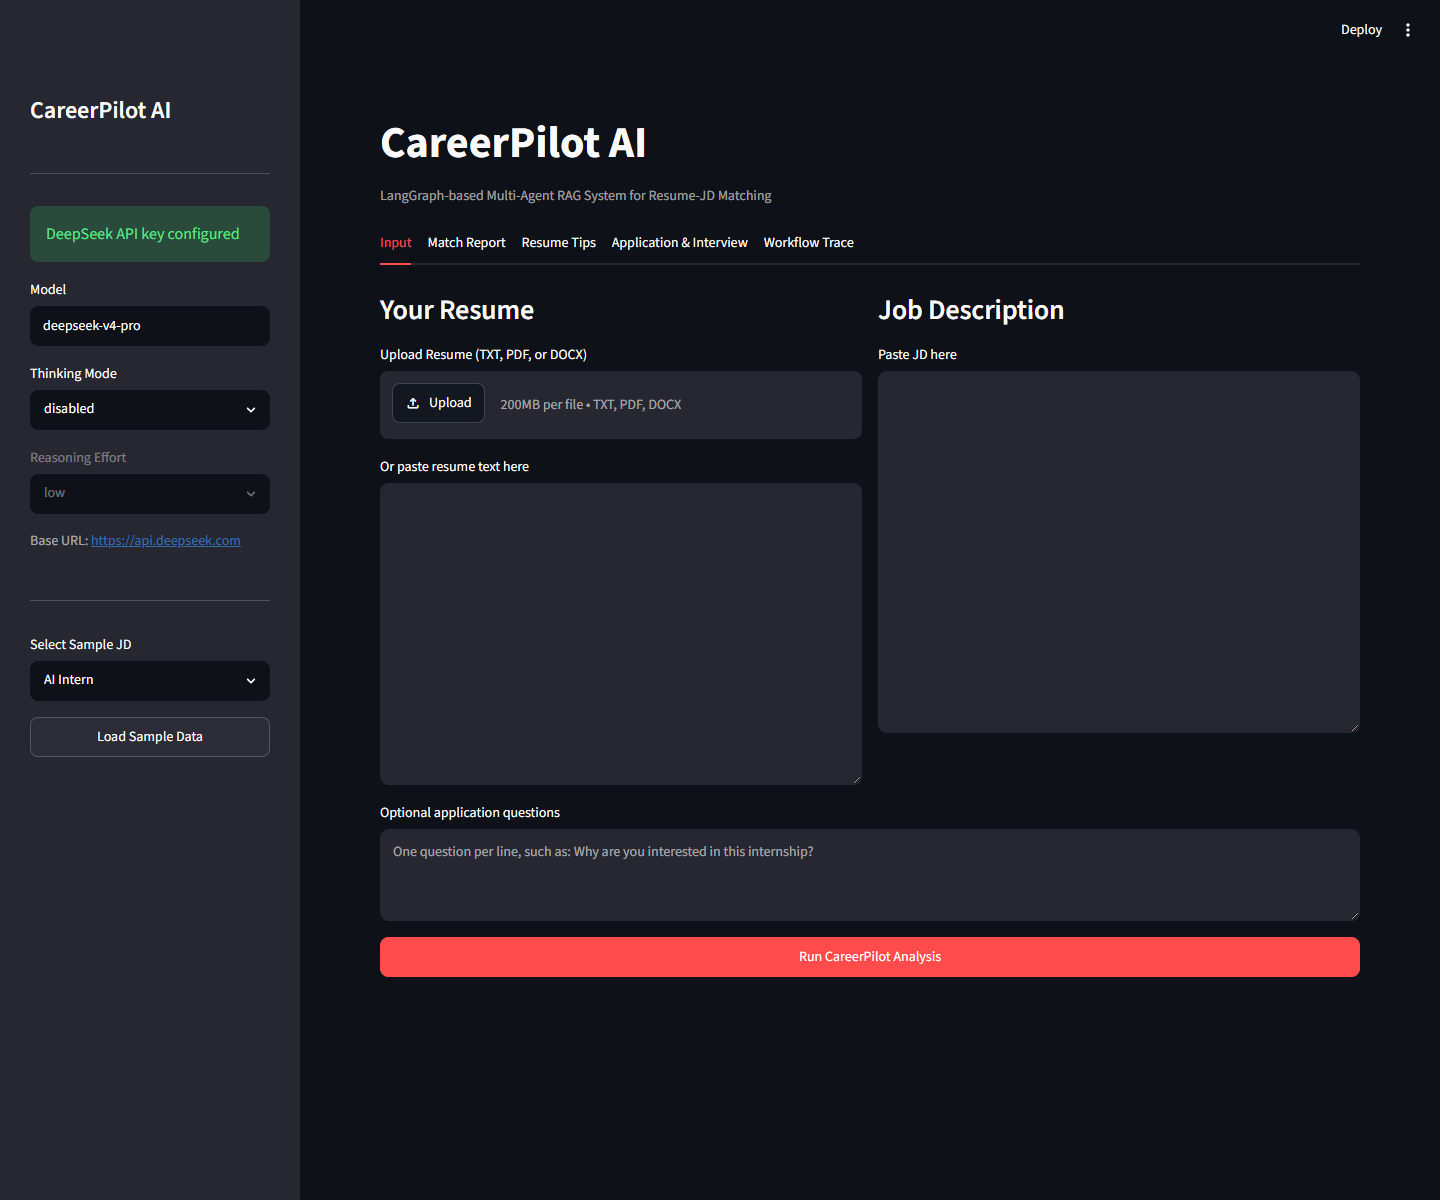
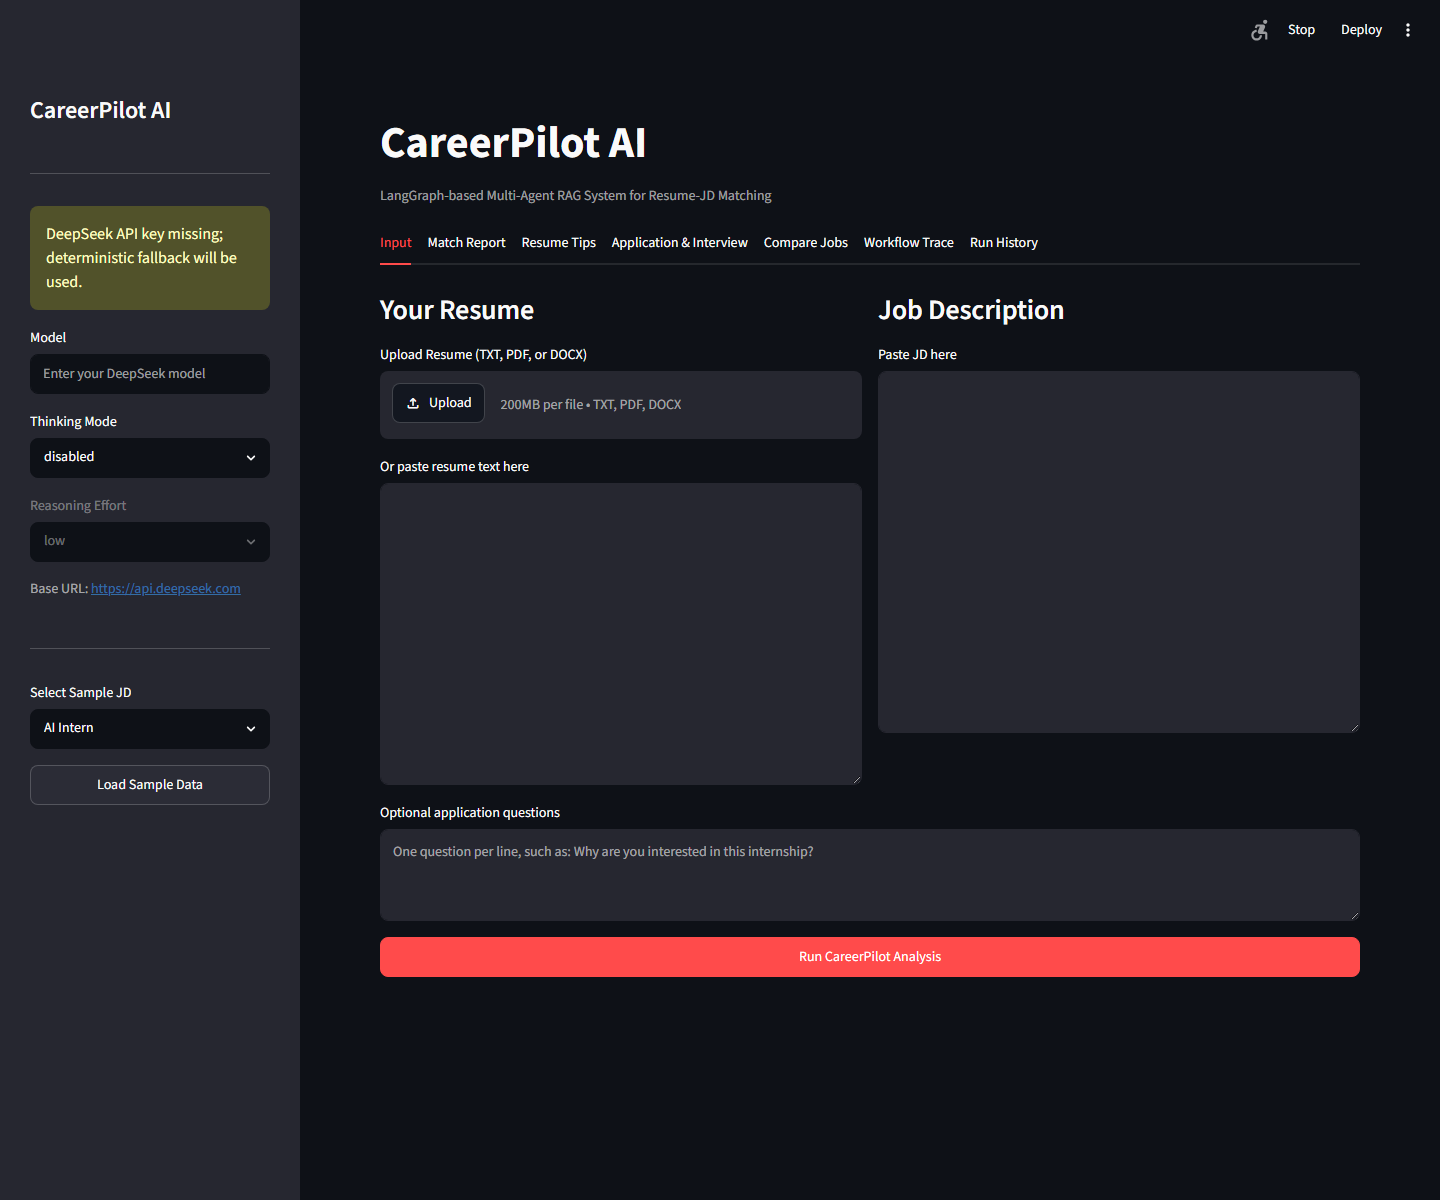
Refresh screenshots, and fix the Compare Jobs loader they exposed
Capturing a Compare Jobs result screenshot kept timing out. A screenshot
of the failure showed why: both input boxes empty, "Please provide a
resume", and the Load all sample JDs button doing nothing.

A Streamlit widget with a key takes its value from session_state and
ignores value= on every rerun after the first. compare_tab.py passed
both, so compare_jd_text was registered empty on first render and the
button's writes never reached the widget. The sample loader has been
dead since slice 9 shipped it: users could only paste job descriptions
by hand.

Nothing caught it. test_multi_jd.py exercises compare_jobs() directly
and test_app_renders.py only asserted the controls exist; neither drove
the interaction. Two AppTest regression tests now do, and both fail
against the old file.

Three fixes to the capture tool as well: it hardcoded .venv at the repo
root and died with ENOENT inside a worktree; element.click() does not
work on Streamlit's primary button, whose React handler is bound to
pointer events, so the script believed it had started an analysis that
never ran; and run_analysis returns before creating the status widget
when the result is cached, so waiting on "Analysis complete" hung on
every repeat run.

Screenshots now default to the deterministic path, which makes them
reproducible and free. The first live capture had frozen a 3/100 match
score whose own explanation read "strong alignment with Python, SQL,
[…]

diff --git a/src/ui/tabs/compare_tab.py b/src/ui/tabs/compare_tab.py
@@ -39,6 +39,10 @@ def _load_all_samples() -> str:
     return f"\n{JD_SEPARATOR}\n".join(parts)
 
 
+RESUME_KEY = "compare_resume_text"
+JD_KEY = "compare_jd_text"
+
+
 def render(settings) -> None:
     st.markdown("#### Compare one resume against several roles")
     st.caption(
@@ -46,28 +50,28 @@ def render(settings) -> None:
         "Start a block with '# Label' to name it."
     )
 
+    # A keyed widget takes its value from session_state and ignores `value=` on
+    # every rerun after the first, so the contents have to be seeded here and
+    # written through session_state. Passing `value=` instead left both boxes
+    # permanently empty and made "Load all sample JDs" do nothing.
+    st.session_state.setdefault(RESUME_KEY, st.session_state.get("sample_resume", ""))
+    st.session_state.setdefault(JD_KEY, "")
+
+    # Above the columns: session_state for a widget key cannot be assigned once
+    # that widget has been created in the same run.
+    if st.button("Load all sample JDs", use_container_width=True):
+        st.session_state[RESUME_KEY] = load_sample(next(iter(SAMPLE_JDS)))[0]
+        st.session_state[JD_KEY] = _load_all_samples()
+        st.rerun()
+
     col1, col2 = st.columns(2)
     with col1:
         resume_file = st.file_uploader(
             "Upload Resume (TXT, PDF, or DOCX)", type=["txt", "pdf", "docx"], key="compare_resume_upload"
         )
-        pasted_resume = st.text_area(
-            "Or paste resume text here",
-            height=300,
-            value=st.session_state.get("sample_resume", ""),
-            key="compare_resume_text",
-        )
+        pasted_resume = st.text_area("Or paste resume text here", height=300, key=RESUME_KEY)
     with col2:
-        if st.button("Load all sample JDs", use_container_width=True):
-            st.session_state["compare_jds"] = _load_all_samples()
-            resume, _ = load_sample(next(iter(SAMPLE_JDS)))
-            st.session_state["sample_resume"] = resume
-        jd_blocks = st.text_area(
-            "Job descriptions",
-            height=340,
-            value=st.session_state.get("compare_jds", ""),
-            key="compare_jd_text",
-        )
+        jd_blocks = st.text_area("Job descriptions", height=340, key=JD_KEY)
 
     if st.button("Compare roles", type="primary", use_container_width=True):
         _run_comparison(resume_file, pasted_resume, jd_blocks, settings)

diff --git a/tests/test_app_renders.py b/tests/test_app_renders.py
@@ -96,6 +96,47 @@ def test_download_button_appears_once_a_result_exists():
     assert "Match Score" in metrics
 
 
+def test_load_all_sample_jds_actually_fills_the_boxes():
+    """A keyed widget ignores `value=` after its first render.
+
+    The Compare Jobs tab originally passed `value=` alongside `key=`, so both
+    boxes stayed empty however often the button was pressed and the tab could
+    only ever report "Please provide a resume." The unit tests covered
+    compare_jobs() directly and never touched this path.
+    """
+
+    from src.ui.tabs.compare_tab import JD_KEY, RESUME_KEY
+
+    app = AppTest.from_file("app.py", default_timeout=60)
+    app.run()
+
+    button = next(b for b in app.button if b.label == "Load all sample JDs")
+    button.click().run()
+
+    assert not app.exception, [str(e) for e in app.exception]
+    assert "Alex Chen" in app.session_state[RESUME_KEY]
+    jd_text = app.session_state[JD_KEY]
+    assert "AI Intern" in jd_text
+    assert jd_text.count("===") >= 2, "every sample JD should be present"
+
+
+def test_comparison_runs_end_to_end_in_the_ui():
+    from eval.run_eval import use_deterministic_agents
+
+    use_deterministic_agents()
+
+    app = AppTest.from_file("app.py", default_timeout=120)
+    app.run()
+    next(b for b in app.button if b.label == "Load all sample JDs").click().run()
+    next(b for b in app.button if b.label == "Compare roles").click().run()
+
+    assert not app.exception, [str(e) for e in app.exception]
+    result = app.session_state["comparison_result"]
+    assert result.best is not None
+    assert len(result.jobs) == 3
+    assert all(not job.failed for job in result.jobs)
+
+
 def test_sensitive_reminder_is_not_shown_before_any_analysis():
     """It used to render unconditionally, warning about content not on screen."""
 

diff --git a/README.md b/README.md
@@ -113,19 +113,29 @@ python -m streamlit run app.py --server.address 127.0.0.1 --server.port 8501
 
 ## Demo Screenshots
 
-Input screen with local DeepSeek configuration and Phase 2 tabs:
+Input screen with the provider settings and all seven tabs:
 
 ![CareerPilot AI input screen](docs/assets/careerpilot-home.png)
 
-Sample resume and AI Intern job description loaded through the Streamlit sidebar:
+Sample resume and AI Intern job description loaded through the sidebar:
 
 ![CareerPilot AI sample data loaded](docs/assets/careerpilot-sample-input.png)
 
-To refresh these screenshots after UI changes, use Node.js and local Google Chrome:
+Match report, with the Markdown export button:
+
+![CareerPilot AI match report](docs/assets/careerpilot-match-report.png)
+
+One resume compared against three roles, ranked by fit:
+
+![CareerPilot AI job comparison](docs/assets/careerpilot-compare-jobs.png)
+
+These are captured on the deterministic path, so anyone can regenerate the identical images and no API credit is spent. That is why the sidebar shows the fallback notice rather than a configured key.
 
 ```powershell
 node tools\capture_streamlit_screenshot.mjs
 ```
+
+Add `--live` to capture real model output instead. Note that the live match score is not stable: the sample resume and AI Intern JD have scored anywhere from 3 to 65 across runs, so a live capture freezes one draw from that spread.
 
 ## Tests And Linting
 
@@ -161,6 +171,7 @@ The script writes `outputs/evaluation_results.csv` with one row per case and met
 
 ## Limitations
 
+- The LLM-produced match score is not stable. The bundled sample resume and AI Intern JD have scored 65, 62, 40, and 3 across separate runs with identical input, while the deterministic scorer returns 68 every time. Treat the score as a rough signal, and read the matched and missing skills, which vary far less.
 - Fallback parsing is simple and intended for offline demos.
 - RAG uses deterministic local retrieval unless optional vector-store dependencies are installed.
 - Model quality depends on the configured DeepSeek model.

diff --git a/docs/IMPLEMENTATION_PLAN.md b/docs/IMPLEMENTATION_PLAN.md
@@ -179,6 +179,7 @@ the measurements that contradicted the original plan.
 | 9 | Multi-JD comparison |
 | 10 | RAG retrieval made selective (added after the first nine merged) |
 | 11 | Vectorstore gated off when embeddings are hash-based, which retrieved worse |
+| 12 | Screenshots refreshed; fixed the Compare Jobs sample loader they exposed |
 
 Slice 10 corrected a diagnosis made in the earlier slices. The RAG problem had
 been recorded as "the knowledge base is too small". The corpus size was a
@@ -299,7 +300,10 @@ Phase 2 follow-up (all closed in the 2026-07-23 optimization round):
 
 Known technical debt:
 
-- README screenshots predate the Compare Jobs tab and the export button.
+- The LLM match score is unstable: 65, 62, 40, and 3 across runs with identical
+  input, against a stable 68 from the deterministic scorer. The headline number
+  the user sees is therefore unreliable. Worth deciding whether to sanity-check
+  the model score against the deterministic one, or surface the disagreement.
 - Synonym-aware retrieval needs a real embedding model. The Chroma path does not
   provide it: with the default hash embeddings, synonym similarity measures
   0.000 and retrieval ranks worse than term overlap, so it is gated off.

diff --git a/AGENTS.md b/AGENTS.md
@@ -32,6 +32,15 @@ Read these files first:
 - **`tests/conftest.py` clears the API key for every test.** A test meaning to
   exercise the LLM branch must patch `src.agents.common.can_use_llm`, or it will
   pass while testing the fallback instead.
+- **A Streamlit widget with a `key` ignores `value=` after its first render.**
+  Seed `st.session_state[key]` and write through it instead, and assign before
+  the widget is created in that run. Passing both silently broke the Compare
+  Jobs sample loader for an entire slice, and unit tests over the underlying
+  function did not notice. Drive the UI with `AppTest` when a button is meant
+  to change what a widget shows.
+- **The LLM match score swings widely on identical input** (observed 3 to 65 for
+  the sample data, against a stable 68 from the deterministic scorer). Do not
+  read a single run as a regression, and do not freeze one into a screenshot.
 - **The Chroma vectorstore is not the better retrieval path by default.**
   `LocalHashEmbeddings` buckets tokens by md5 into 64 dimensions: synonym
   similarity is 0.000 and 839 tokens collide into those buckets 13-deep. Ranking
